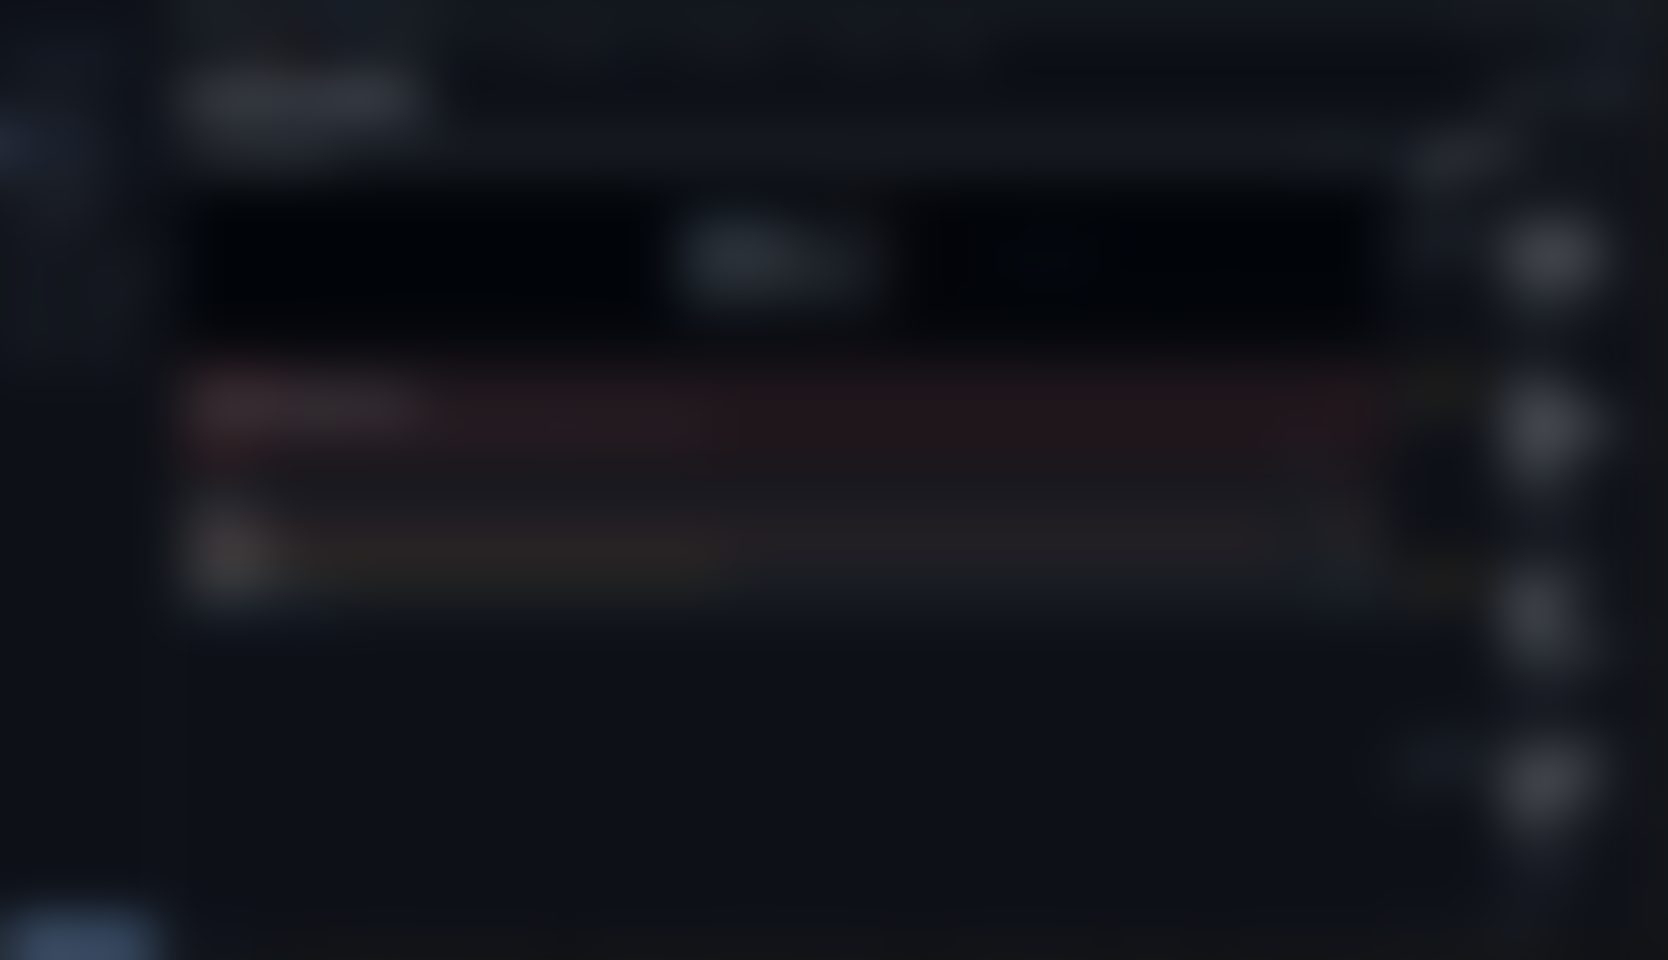
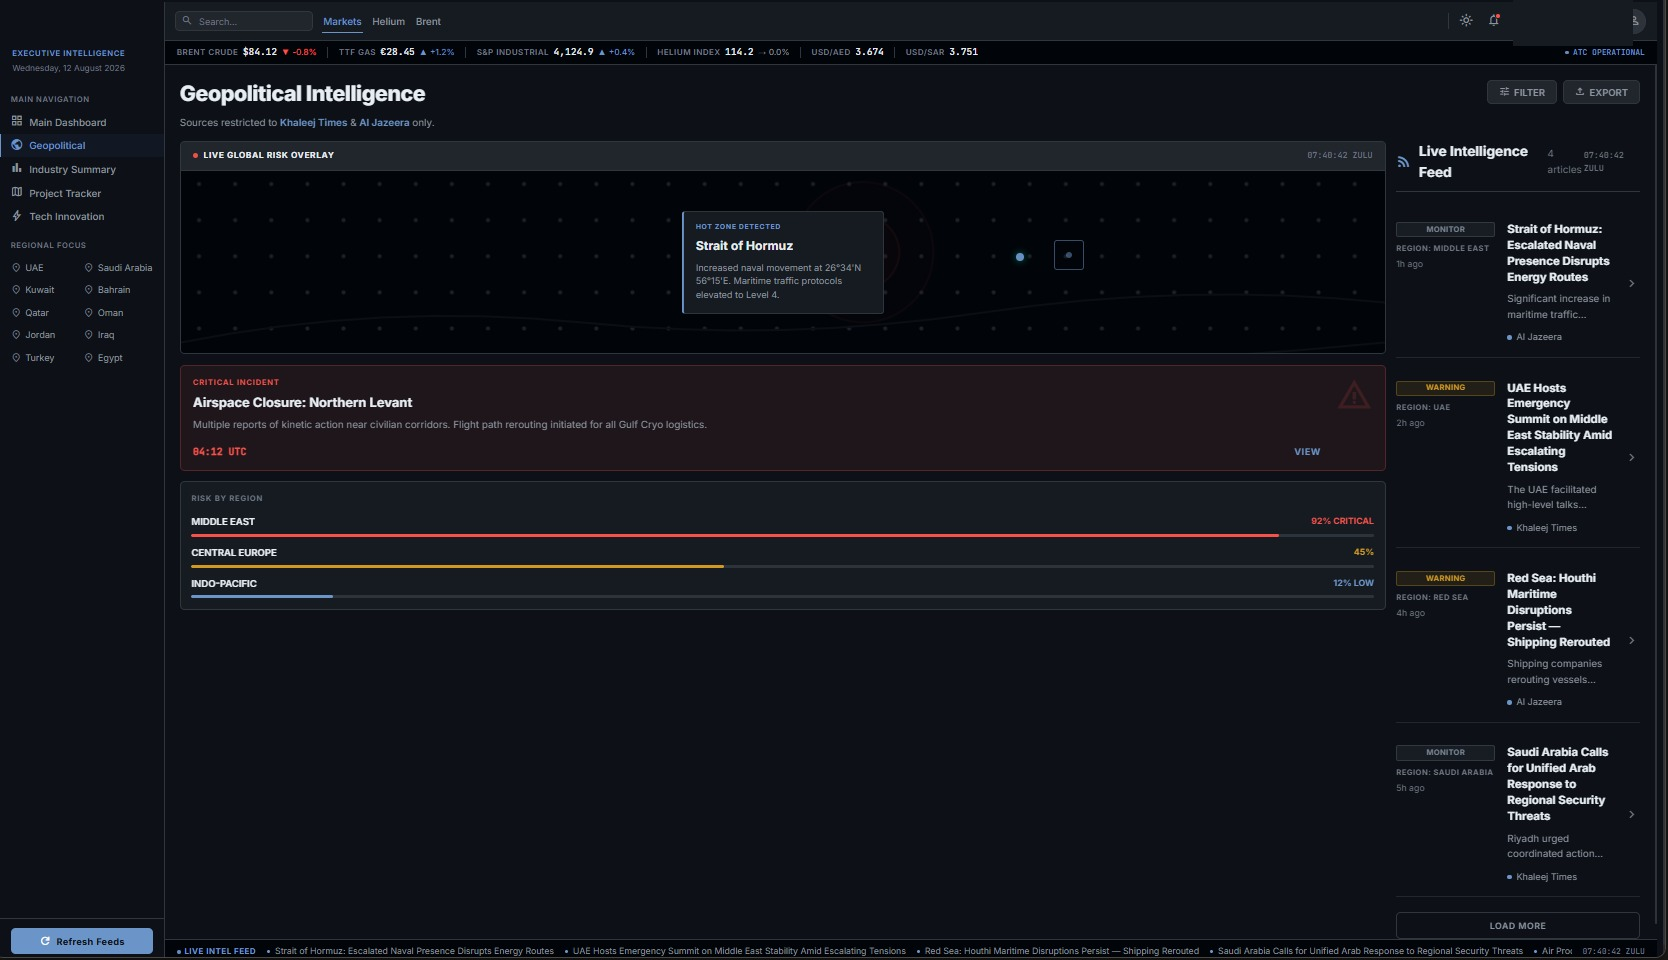
Region-blur Exec Intelligence instead of full-blur
execintel/ moves from full-blur to targeted region-blur, matching the
fero approach:

- ProjectTracker: mask the competitive-positioning ratings (GC vs
  Linde/Air Products), the opportunity radar (target accounts, market-
  entry actions), and the competitor matrix; keep countries, key sectors,
  KPI tiles and structure.
- Dashboard: mask the GC project-highlights pipeline and opportunity
  radar; keep KPI tiles, public geopolitical news and market data.
- IndustrySummary: mask the project-name column and competitor
  leadership names; keep company names, values, statuses and news.
- Geopolitical: left sharp — pure public news + aggregate risk, no names.

Regions live in scripts/redactions.json (now 43 across 16 screens).
Audit clean: 86/86 assets resolve, 0 broken images.

Claude-Session: https://claude.ai/code/session_012PYoG9vEsXqpUYbTtokhaK

diff --git a/README.md b/README.md
@@ -224,12 +224,15 @@ Two of these are decisions, not code — they need Abdul's input:
     user names/emails, depot/site names, project names/IDs, and the Depots
     directory. Kept sharp: order/asset codes, statuses, distances, aggregate
     KPI dashboards, and all chrome — so the screens still read as a real product.
-  - **Full-blur (`execintel/` 4)** — this executive-intel tool is wall-to-wall
-    project / deal names, so the whole image is blurred
-    (`scripts/redact-screenshots.py`).
-  - **Left sharp:** `scmhub/` (kept by decision), the fero aggregate dashboards
-    (no PII), `itemcode/` (diagrams), `tharwa/` (personal venture, sample data),
-    and all `deepdive/*` case studies (concepts/teardowns).
+  - **Region-blur (`execintel/` 3 screens)** — masks the internal strategic
+    content (competitive positioning vs Linde/Air Products, target accounts,
+    market-entry actions, GC project pipeline and opportunity radar, the
+    project-name column, competitor leadership names); KPI tiles, public news,
+    market data, country lists and structure stay sharp. `Geopolitical.jpg` is
+    pure public news / risk levels, so it is left untouched.
+  - **Left sharp:** `scmhub/` (kept by decision), `execintel/Geopolitical.jpg`,
+    the fero aggregate dashboards (no PII), `itemcode/` (diagrams), `tharwa/`
+    (personal venture, sample data), and all `deepdive/*` case studies.
   - **Still open:** the real *metrics and names* in `src/data/` are untouched
     (standard on a resume, but tell me if any should be generalised).
   - **⚠ git history:** the sharp originals were committed before redaction, so
